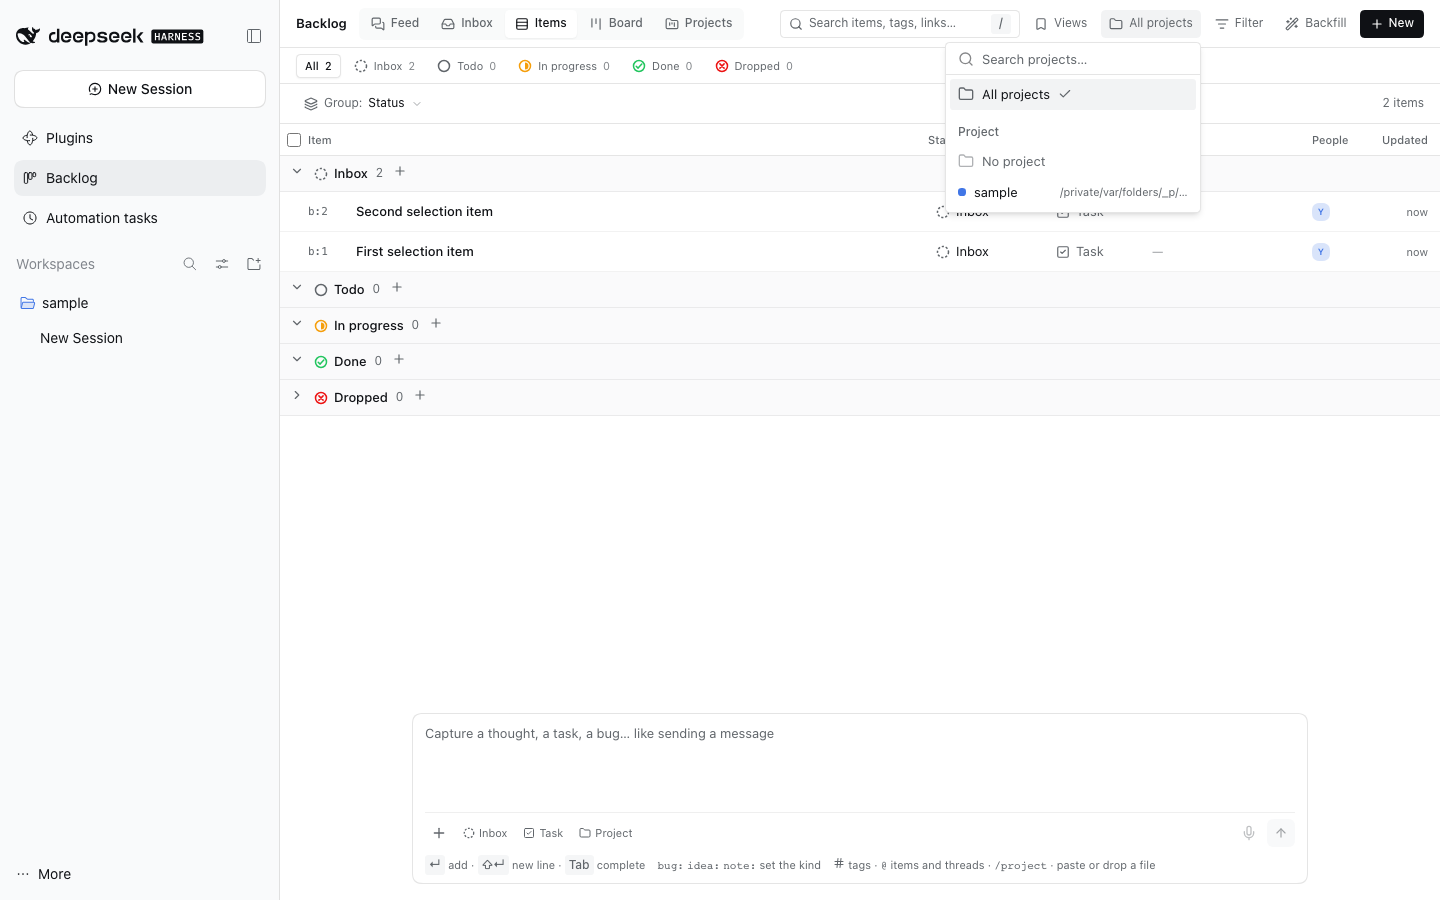
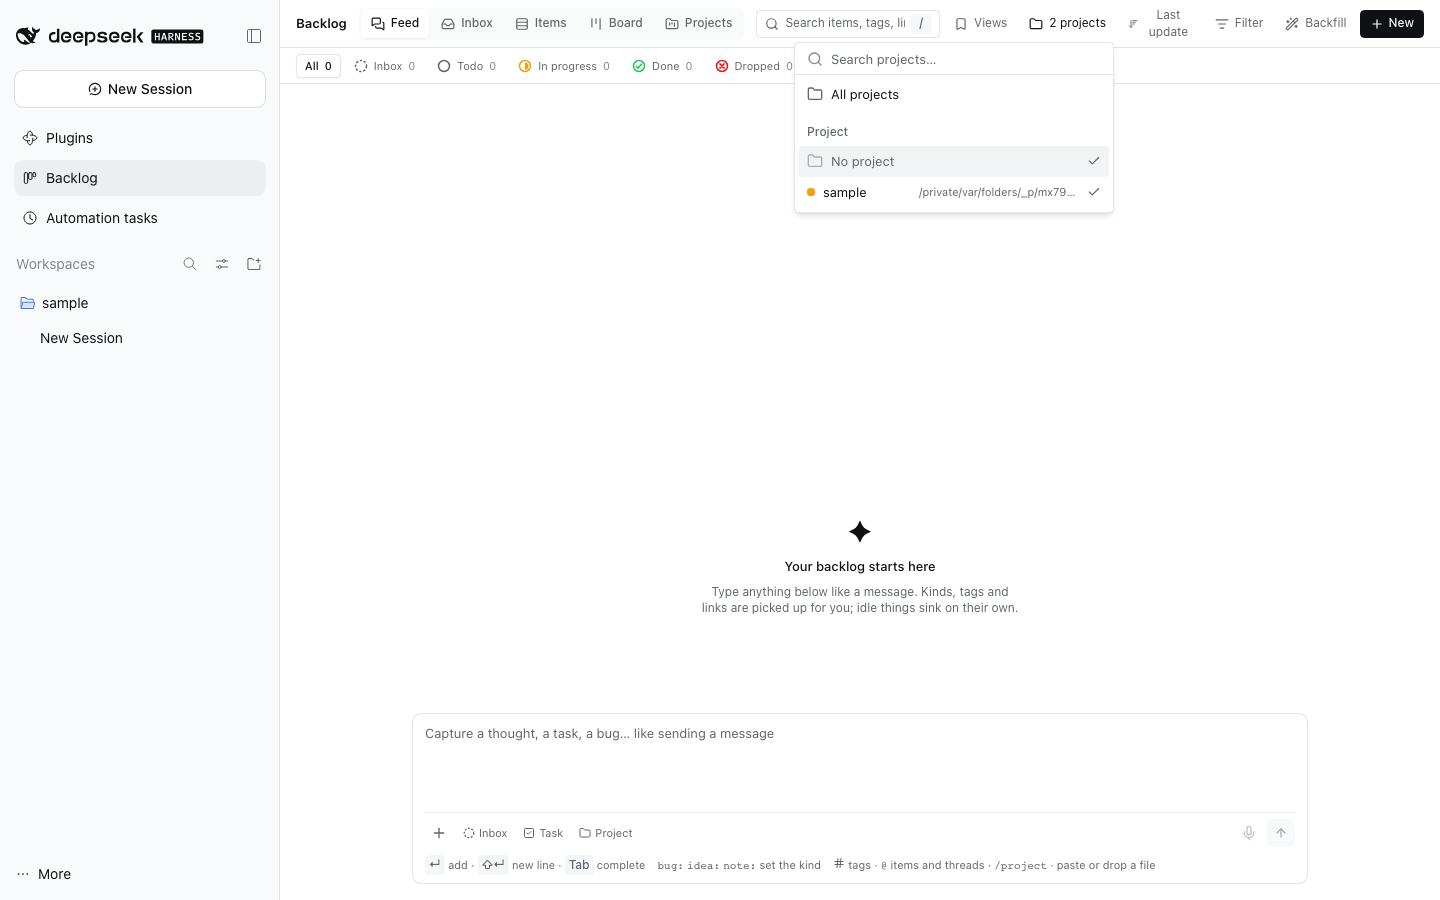
feat(backlog): filter by multiple projects
Let the backlog project filter retain several project scopes at once, including unassigned items, and apply the OR selection through the Host list API. Preserve legacy single-project preferences and show home-directory paths as ~/... in picker labels so long absolute paths stay readable. Update the project-scope documentation and screenshot.

diff --git a/plugins/@dshfiles/backlog/src/backlog-panel.tsx b/plugins/@dshfiles/backlog/src/backlog-panel.tsx
@@ -50,7 +50,7 @@ import { BacklogPeek } from './item-peek.js'
 import { ItemsView, itemsOrder } from './items-view.js'
 import { BacklogProjectPaths } from './project-paths.js'
 import { ProjectsView } from './projects-view.js'
-import { BacklogProjects, ProjectPicker } from './project-picker.js'
+import { BacklogProjects, ProjectFilterPicker, ProjectPicker } from './project-picker.js'
 import { SearchResults } from './search-results.js'
 import { backlogSettings, type BacklogSettings } from './settings.js'
 import { StartThreadDialog } from './start-thread-dialog.js'
@@ -77,6 +77,7 @@ const preferences = createStoredValue({
     showDormant: z.boolean(),
     statuses: z.array(BacklogItems.statusSchema).default([]),
     project: z.string().nullable().default(null),
+    projects: z.array(z.string().nullable()).default([]),
     sort: z
       .object({
         feed: z.enum(['updated', 'created']).default('updated'),
@@ -91,6 +92,7 @@ const preferences = createStoredValue({
     showDormant: false,
     statuses: [],
     project: null,
+    projects: [],
     sort: { feed: 'updated' as const, inbox: 'updated' as const, items: 'updated' as const },
   },
 })
@@ -101,30 +103,30 @@ const isTyping = (target: EventTarget | null): boolean =>
 const isVisible = (item: BacklogSummaryView, now: number): boolean =>
   (item.freshness === 'fresh' || item.freshness === 'stale') && (item.snoozedUntil ?? 0) <= now
 
-/** The header's project scope: one searchable combobox that narrows every view to a project, or to no project. */
+/** The header's searchable multi-select narrows every backlog view to any chosen projects. */
 const ProjectFilter = (props: {
-  readonly project: string | null
-  readonly projects: readonly string[]
-  readonly onPick: (project: string | null) => void
+  readonly projects: readonly (string | null)[]
+  readonly projectPaths: readonly string[]
+  readonly onPick: (projects: readonly (string | null)[]) => void
 }): JSX.Element => {
-  const label = props.project === null ? 'All projects' : props.project === '' ? 'No project' : ItemGlyphs.projectName(props.project)
+  const count = props.projects.length
+  const labels = props.projects.flatMap(project => (project === null ? ['No project'] : [ItemGlyphs.projectName(project)]))
+  const label = count === 0 ? 'All projects' : count === 1 ? (labels[0] ?? '1 project') : `${count} projects`
+  const pathTitle = props.projects.flatMap(project => (project === null ? [] : [ItemGlyphs.displayProjectPath(project)])).join(', ')
+  const singleProject = count === 1 && typeof props.projects[0] === 'string' ? props.projects[0] : null
   return (
-    <ProjectPicker
+    <ProjectFilterPicker
       label="Filter by project"
-      value={props.project ?? BacklogProjects.all}
-      projects={props.projects}
-      allLabel="All projects"
-      align="end"
-      onPick={value => props.onPick(value === BacklogProjects.all ? null : value === BacklogProjects.none ? '' : value)}
-      triggerClassName={cn('dshx:h-7 dshx:max-w-44 dshx:px-2 dshx:text-xs', props.project === null ? 'dshx:text-muted-foreground' : 'dshx:text-foreground')}
+      selection={props.projects}
+      projects={props.projectPaths}
+      onPick={props.onPick}
+      triggerClassName={cn('dshx:h-7 dshx:max-w-44 dshx:px-2 dshx:text-xs', count === 0 ? 'dshx:text-muted-foreground' : 'dshx:text-foreground')}
       trigger={
         <>
-          {props.project === null || props.project === '' ? (
-            <FolderIcon aria-hidden className="dshx:size-3.5 dshx:shrink-0" />
-          ) : (
-            <ItemGlyphs.ProjectDot project={props.project} />
-          )}
-          <span className="dshx:min-w-0 dshx:truncate dshx:@max-pane-compact:sr-only">{label}</span>
+          {singleProject !== null ? <ItemGlyphs.ProjectDot project={singleProject} /> : <FolderIcon aria-hidden className="dshx:size-3.5 dshx:shrink-0" />}
+          <span className="dshx:min-w-0 dshx:truncate dshx:@max-pane-compact:sr-only" title={pathTitle}>
+            {label}
+          </span>
         </>
       }
     />
@@ -317,11 +319,17 @@ export const BacklogPanel = (props: {
     const timer = window.setTimeout(BacklogFocusModel.clear, 0)
     return () => window.clearTimeout(timer)
   }, [focus, setCursorId, setOpenId])
-  const projectFilter = stored.project
+  const projectFilters: (string | null)[] =
+    stored.projects.length > 0
+      ? stored.projects.map(project => (project === '' ? null : project))
+      : stored.project === null
+        ? []
+        : [stored.project === '' ? null : stored.project]
+  const projectFilterKey = projectFilters
   // `undefined` is not a JSON value, so an unfiltered list omits the key instead of carrying the scope along.
-  const scoped = projectFilter === null ? {} : { project: projectFilter === '' ? null : projectFilter }
+  const scoped = projectFilters.length === 0 ? {} : { projects: projectFilters }
   const list = useQuery({
-    queryKey: [BacklogQueries.key, 'list', debounced, kinds, projectFilter, debounced === '' ? [] : stored.statuses],
+    queryKey: [BacklogQueries.key, 'list', debounced, kinds, projectFilterKey, debounced === '' ? [] : stored.statuses],
     queryFn: async ({ signal }) => {
       const input: Parameters<typeof api.list>[0] = { query: debounced, kinds, ...scoped, freshness: 'all', limit: debounced === '' ? 2_000 : 200 }
       if (debounced !== '' && stored.statuses.length > 0) input.statuses = stored.statuses
@@ -330,7 +338,7 @@ export const BacklogPanel = (props: {
     placeholderData: keepPreviousData,
   })
   const searchStatusCounts = useQuery({
-    queryKey: [BacklogQueries.key, 'search-status-counts', debounced, kinds, projectFilter],
+    queryKey: [BacklogQueries.key, 'search-status-counts', debounced, kinds, projectFilterKey],
     queryFn: async ({ signal }) => {
       const counts = await Promise.all(
         BacklogItems.statuses.map(async status => {
@@ -345,7 +353,7 @@ export const BacklogPanel = (props: {
     enabled: debounced !== '',
   })
   const inbox = useQuery({
-    queryKey: [BacklogQueries.key, 'list', 'inbox', projectFilter],
+    queryKey: [BacklogQueries.key, 'list', 'inbox', projectFilterKey],
     queryFn: async ({ signal }) => BacklogViews.list(await api.list({ inbox: true, ...scoped, freshness: 'all', limit: 200 }, { signal })),
   })
   const projectCatalog = useQuery({
@@ -551,7 +559,7 @@ export const BacklogPanel = (props: {
               switchView(saved.view)
             }}
           />
-          <ProjectFilter project={projectFilter} projects={projectPaths} onPick={project => setPreference({ project })} />
+          <ProjectFilter projects={projectFilters} projectPaths={projectPaths} onPick={projects => setPreference({ projects: [...projects], project: null })} />
           {view === 'feed' || view === 'inbox' || view === 'items' ? (
             <DropdownMenu>
               <DropdownMenuTrigger
@@ -729,7 +737,7 @@ export const BacklogPanel = (props: {
             tags={tags}
             threads={threads}
             projects={projectPaths}
-            projectFilter={projectFilter === '' ? null : projectFilter}
+            projectFilter={projectFilters.length === 0 ? null : projectFilters.length === 1 ? (projectFilters[0] ?? null) : null}
             reuseProject={settings.value?.reuseCaptureProject ?? true}
             status={captureStatus}
             onClearStatus={() => setCaptureStatus(null)}

diff --git a/plugins/@dshfiles/backlog/src/project-picker.tsx b/plugins/@dshfiles/backlog/src/project-picker.tsx
@@ -1,9 +1,12 @@
+import { Command, CommandEmpty, CommandGroup, CommandInput, CommandItem, CommandList } from '@dshfiles/plugin-ui/components/ui/command'
 import { Combobox, type ComboboxOption } from '@dshfiles/plugin-ui/components/ui/combobox'
-import { FolderIcon } from '@dshfiles/plugin-ui/icons'
+import { Popover, PopoverContent, PopoverTrigger } from '@dshfiles/plugin-ui/components/ui/popover'
+import { CheckIcon, FolderIcon } from '@dshfiles/plugin-ui/icons'
 import { cn } from '@dshfiles/plugin-ui/lib/utils'
-import type { ReactNode } from 'react'
+import { useState, type ReactNode } from 'react'
 
 import { ItemGlyphs } from './item-glyphs.js'
+import { BacklogProjectPaths } from './project-paths.js'
 
 /** Command values: real project paths are absolute, so neither sentinel can collide with one. */
 const NO_PROJECT = '__backlog_no_project__'
@@ -33,12 +36,14 @@ const renderProjectOption = (option: ComboboxOption): ReactNode => {
     <>
       <ItemGlyphs.ProjectDot project={option.value} />
       <span className="dshx:min-w-0 dshx:truncate">{ItemGlyphs.projectName(option.value)}</span>
-      <span className="dshx:ml-auto dshx:max-w-32 dshx:truncate dshx:text-[11px] dshx:text-muted-foreground">{option.value}</span>
+      <span className="dshx:ml-auto dshx:max-w-32 dshx:truncate dshx:text-[11px] dshx:text-muted-foreground">
+        {ItemGlyphs.displayProjectPath(option.value)}
+      </span>
     </>
   )
 }
 
-/** A searchable project single-select: the one shadcn combobox shared by the header, the capture box and item details. */
+/** Searchable single-project picker used by capture and item details. */
 export const ProjectPicker = (props: {
   readonly label: string
   readonly value: string
@@ -84,6 +89,73 @@ export const ProjectPicker = (props: {
       triggerContent={props.trigger}
       value={props.value}
     />
+  )
+}
+
+export const ProjectFilterPicker = (props: {
+  readonly label: string
+  readonly selection: readonly (string | null)[]
+  readonly projects: readonly string[]
+  readonly onPick: (selection: readonly (string | null)[]) => void
+  readonly trigger: ReactNode
+  readonly triggerClassName?: string
+}): JSX.Element => {
+  const [open, setOpen] = useState(false)
+  const projects = [...new Set([...props.selection.flatMap(project => (project === null ? [] : [project])), ...props.projects])]
+  const toggle = (project: string | null): void => {
+    props.onPick(BacklogProjectPaths.toggleSelection(props.selection, project))
+  }
+  return (
+    <Popover onOpenChange={setOpen} open={open}>
+      <PopoverTrigger
+        aria-expanded={open}
+        aria-haspopup="listbox"
+        aria-label={props.label}
+        className={cn(triggerClass, props.triggerClassName)}
+        role="combobox"
+        type="button"
+      >
+        {props.trigger}
+      </PopoverTrigger>
+      <PopoverContent align="end" className="dshx-root dshx:w-80 dshx:p-0">
+        <Command label={`${props.label} search`}>
+          <CommandInput aria-label="Search projects" autoFocus placeholder="Search projects…" />
+          <CommandList>
+            <CommandEmpty>No project matches.</CommandEmpty>
+            <CommandGroup>
+              <CommandItem className="dshx:gap-2 dshx:text-[13px]" onSelect={() => props.onPick([])} value={ALL_PROJECTS}>
+                <FolderIcon aria-hidden />
+                <span className="dshx:min-w-0 dshx:flex-1">All projects</span>
+                {props.selection.length === 0 ? <CheckIcon aria-hidden className="dshx:size-3.5 dshx:shrink-0" /> : null}
+              </CommandItem>
+            </CommandGroup>
+            <CommandGroup heading="Project">
+              <CommandItem className="dshx:gap-2 dshx:text-[13px]" onSelect={() => toggle(null)} value={NO_PROJECT}>
+                <FolderIcon aria-hidden className="dshx:text-muted-foreground/50" />
+                <span className="dshx:min-w-0 dshx:flex-1 dshx:text-muted-foreground">No project</span>
+                {props.selection.includes(null) ? <CheckIcon aria-hidden className="dshx:size-3.5 dshx:shrink-0" /> : null}
+              </CommandItem>
+              {projects.map(project => (
+                <CommandItem
+                  className="dshx:gap-2 dshx:text-[13px]"
+                  key={project}
+                  keywords={[project, ItemGlyphs.displayProjectPath(project), ItemGlyphs.projectName(project)]}
+                  onSelect={() => toggle(project)}
+                  value={project}
+                >
+                  <ItemGlyphs.ProjectDot project={project} />
+                  <span className="dshx:min-w-0 dshx:truncate">{ItemGlyphs.projectName(project)}</span>
+                  <span className="dshx:ml-auto dshx:max-w-40 dshx:truncate dshx:text-[11px] dshx:text-muted-foreground">
+                    {ItemGlyphs.displayProjectPath(project)}
+                  </span>
+                  {props.selection.includes(project) ? <CheckIcon aria-hidden className="dshx:size-3.5 dshx:shrink-0" /> : null}
+                </CommandItem>
+              ))}
+            </CommandGroup>
+          </CommandList>
+        </Command>
+      </PopoverContent>
+    </Popover>
   )
 }
 

diff --git a/plugins/@dshfiles/backlog/src/store.ts b/plugins/@dshfiles/backlog/src/store.ts
@@ -60,6 +60,7 @@ export interface BacklogListQuery {
   readonly statuses?: readonly BacklogStatus[] | undefined
   readonly kinds?: readonly BacklogKind[] | undefined
   readonly project?: string | null | undefined
+  readonly projects?: readonly (string | null)[] | undefined
   readonly tag?: string | undefined
   readonly actor?: string | undefined
   /** `active` (fresh + stale, the feed), `all`, or one freshness state. */
@@ -354,10 +355,12 @@ const createBacklogStore = ({
     const freshnessFilter = query.freshness ?? 'active'
     // A caller may still ask for the workspace an item was captured in; the item is filed under its project.
     const project = query.project === undefined ? undefined : BacklogItems.projectOf(query.project)
+    const projects = query.projects?.map(candidate => (candidate === null ? null : BacklogItems.projectOf(candidate)))
     const matching = [...records.values()]
       .filter(item => query.statuses === undefined || query.statuses.length === 0 || query.statuses.includes(item.status))
       .filter(item => query.kinds === undefined || query.kinds.length === 0 || query.kinds.includes(item.kind))
       .filter(item => project === undefined || item.project === project)
+      .filter(item => projects === undefined || projects.length === 0 || projects.includes(item.project))
       .filter(item => query.tag === undefined || item.tags.includes(query.tag.toLowerCase().replace(/^#/, '')))
       .filter(item => query.actor === undefined || item.actors.some(actor => actor.id === query.actor))
       .filter(item => query.inbox !== true || wantsUser(item, at))

diff --git a/plugins/@dshfiles/backlog/src/item-glyphs.tsx b/plugins/@dshfiles/backlog/src/item-glyphs.tsx
@@ -15,6 +15,7 @@ import {
 import { cn } from '@dshfiles/plugin-ui/lib/utils'
 
 import type { BacklogAttention, BacklogKind, BacklogStatus } from './item.js'
+import { BacklogProjectPaths } from './project-paths.js'
 
 const statusLabels = { inbox: 'Inbox', todo: 'Todo', doing: 'In progress', done: 'Done', dropped: 'Dropped' } satisfies Record<BacklogStatus, string>
 const kindLabels = { task: 'Task', bug: 'Bug', idea: 'Idea', note: 'Note', question: 'Question' } satisfies Record<BacklogKind, string>
@@ -128,7 +129,7 @@ const ProjectDot = (props: { readonly project: string; readonly className?: stri
 
 /** A project as its dot and short name; the full path stays in the tooltip. */
 const ProjectLabel = (props: { readonly project: string; readonly className?: string }): JSX.Element => (
-  <span title={props.project} className={cn('dshx:flex dshx:min-w-0 dshx:items-center dshx:gap-1.5', props.className)}>
+  <span title={BacklogProjectPaths.displayPath(props.project)} className={cn('dshx:flex dshx:min-w-0 dshx:items-center dshx:gap-1.5', props.className)}>
     <ProjectDot project={props.project} />
     <span className="dshx:truncate">{projectName(props.project)}</span>
   </span>
@@ -214,6 +215,7 @@ export class ItemGlyphs {
   static readonly ActorAvatar = ActorAvatar
   static readonly ActorStack = ActorStack
   static readonly projectName = projectName
+  static readonly displayProjectPath = BacklogProjectPaths.displayPath
   static readonly actorName = actorName
   static readonly ago = ago
   static readonly describeEvent = describeEvent

diff --git a/plugins/@dshfiles/backlog/src/api.ts b/plugins/@dshfiles/backlog/src/api.ts
@@ -90,6 +90,10 @@ const listInputSchema = z
     statuses: z.array(BacklogItems.statusSchema).optional(),
     kinds: z.array(BacklogItems.kindSchema).optional(),
     project: z.string().max(BacklogItems.maxTargetChars).nullable().optional().describe('Absolute project path; null lists items outside any project.'),
+    projects: z
+      .array(z.string().max(BacklogItems.maxTargetChars).nullable())
+      .optional()
+      .describe('Several absolute project paths; null includes items outside any project, and an empty array applies no project filter.'),
     tag: z.string().max(60).optional(),
     actor: BacklogItems.actorIdSchema.optional().describe('`user`, `system` or `agent:<sessionId>`.'),
     freshness: z
@@ -128,7 +132,7 @@ export const backlogApi = defineApi({
       input: listInputSchema,
       output: listOutputSchema,
       description:
-        'List or search backlog items (tasks, bugs, ideas, notes, questions), newest activity first. Dormant and archived items are hidden unless `freshness` asks for them. Read-only.',
+        'List or search backlog items (tasks, bugs, ideas, notes, questions), newest activity first. Filter one project with `project` or any of several with `projects`; null selects items without a project. Dormant and archived items are hidden unless `freshness` asks for them. Read-only.',
       tool: { name: 'backlog_list', readOnly: true },
     }),
     revision: method({

diff --git a/plugins/@dshfiles/backlog/src/project-paths.test.ts b/plugins/@dshfiles/backlog/src/project-paths.test.ts
@@ -3,6 +3,19 @@ import { describe, expect, it } from 'vitest'
 import { BacklogProjectPaths } from './project-paths.js'
 
 describe('project candidates', () => {
+  it('toggles projects independently, including the unassigned option', () => {
+    expect(BacklogProjectPaths.toggleSelection(['/dev/one'], '/dev/two')).toEqual(['/dev/one', '/dev/two'])
+    expect(BacklogProjectPaths.toggleSelection(['/dev/one', '/dev/two'], '/dev/one')).toEqual(['/dev/two'])
+    expect(BacklogProjectPaths.toggleSelection([null], null)).toEqual([])
+  })
+
+  it('shows home-directory paths relative to the home folder', () => {
+    expect(BacklogProjectPaths.displayPath('/Users/ada/dev/dshfiles')).toBe('~/dev/dshfiles')
+    expect(BacklogProjectPaths.displayPath('/home/ada/dev/dshfiles')).toBe('~/dev/dshfiles')
+    expect(BacklogProjectPaths.displayPath('/Volumes/work/dshfiles')).toBe('/Volumes/work/dshfiles')
+    expect(BacklogProjectPaths.displayPath('/Users/ada')).toBe('~')
+  })
+
   it('merges both sources, dedupes and sorts them', () => {
     expect(
       BacklogProjectPaths.candidates([

diff --git a/plugins/@dshfiles/backlog/src/store.test.ts b/plugins/@dshfiles/backlog/src/store.test.ts
@@ -139,6 +139,20 @@ describe('store', () => {
     expect(fromProject.item.project).toBe('/work/dshfiles')
   })
 
+  it('filters by any of several projects, including items without a project', async () => {
+    const store = BacklogModel.createStore({ files: memoryFiles(), items: memoryTable<BacklogItem>(), now: () => 1 })
+    await store.capture({ text: 'in dshfiles', project: '/work/dshfiles', actor: user })
+    await store.capture({ text: 'in bb-plugins', project: '/work/bb-plugins', actor: user })
+    await store.capture({ text: 'unassigned', actor: user })
+    await store.capture({ text: 'in another project', project: '/work/other', actor: user })
+
+    expect(store.list({ projects: ['/work/dshfiles', '/work/bb-plugins', null] }).items.map(item => item.title)).toEqual([
+      'unassigned',
+      'in bb-plugins',
+      'in dshfiles',
+    ])
+  })
+
   it('links an agent capture to its thread and project, and lists newest activity first', async () => {
     const time = clock(1_000)
     const items = memoryTable<BacklogItem>()

diff --git a/plugins/@dshfiles/backlog/src/project-paths.ts b/plugins/@dshfiles/backlog/src/project-paths.ts
@@ -6,6 +6,10 @@ export class BacklogProjectPaths {
    * Every project items already use plus the registered workspaces, deduped and sorted, with isolated thread workspaces
    * dropped so the picker offers `dshfiles` and not the checkout a thread runs in.
    */
+  static readonly displayPath = (path: string): string => path.replace(/^\/(?:Users|home)\/[^/]+(?=\/|$)/, '~')
+  static readonly toggleSelection = (selection: readonly (string | null)[], project: string | null): readonly (string | null)[] =>
+    selection.includes(project) ? selection.filter(candidate => candidate !== project) : [...selection, project]
+
   static candidates(sources: readonly (readonly string[])[]): readonly string[] {
     const unique = new Set(sources.flatMap(paths => paths).filter(path => path !== '' && !EntityLabels.isThreadWorkspace(path)))
     return [...unique].sort((left, right) => left.localeCompare(right))

diff --git a/plugins/@dshfiles/backlog/README.md b/plugins/@dshfiles/backlog/README.md
@@ -282,13 +282,14 @@ browser lists the same views.
 
 ## Project scope
 
-The header's project combobox narrows the feed, Inbox, Items, Board and search to one project, to `No
-project`, or to everything; it persists like the status chips and presets the capture box to the same
-project. Candidates are the projects items already name plus every registered workspace, with isolated
-thread workspaces (`…/threads/thread-…`) left out, so the picker offers `dshfiles` and not the checkout a
-thread runs in. The same combobox sits on the item's details line and in every right-click menu's
-**Project** submenu, and every feed entry, Inbox row, Items row, board card and search result labels the
-item's project, with the full path in its tooltip.
+The header's searchable project filter narrows the feed, Inbox, Items, Board and search to any number of
+projects, including `No project`; `All projects` clears the selection. It persists like the status chips
+and presets the capture box when exactly one project is selected. Paths inside the current user's home are
+displayed as `~/...` where shown. Candidates are the projects items already name plus every registered
+workspace, with isolated thread workspaces (`…/threads/thread-…`) left out, so the picker offers `dshfiles`
+and not the checkout a thread runs in. The same single-select picker sits on the item's details line and in
+every right-click menu's **Project** submenu, and every feed entry, Inbox row, Items row, board card and
+search result labels the item's project.
 
 ## Inbox and the rest of the ADE
 
